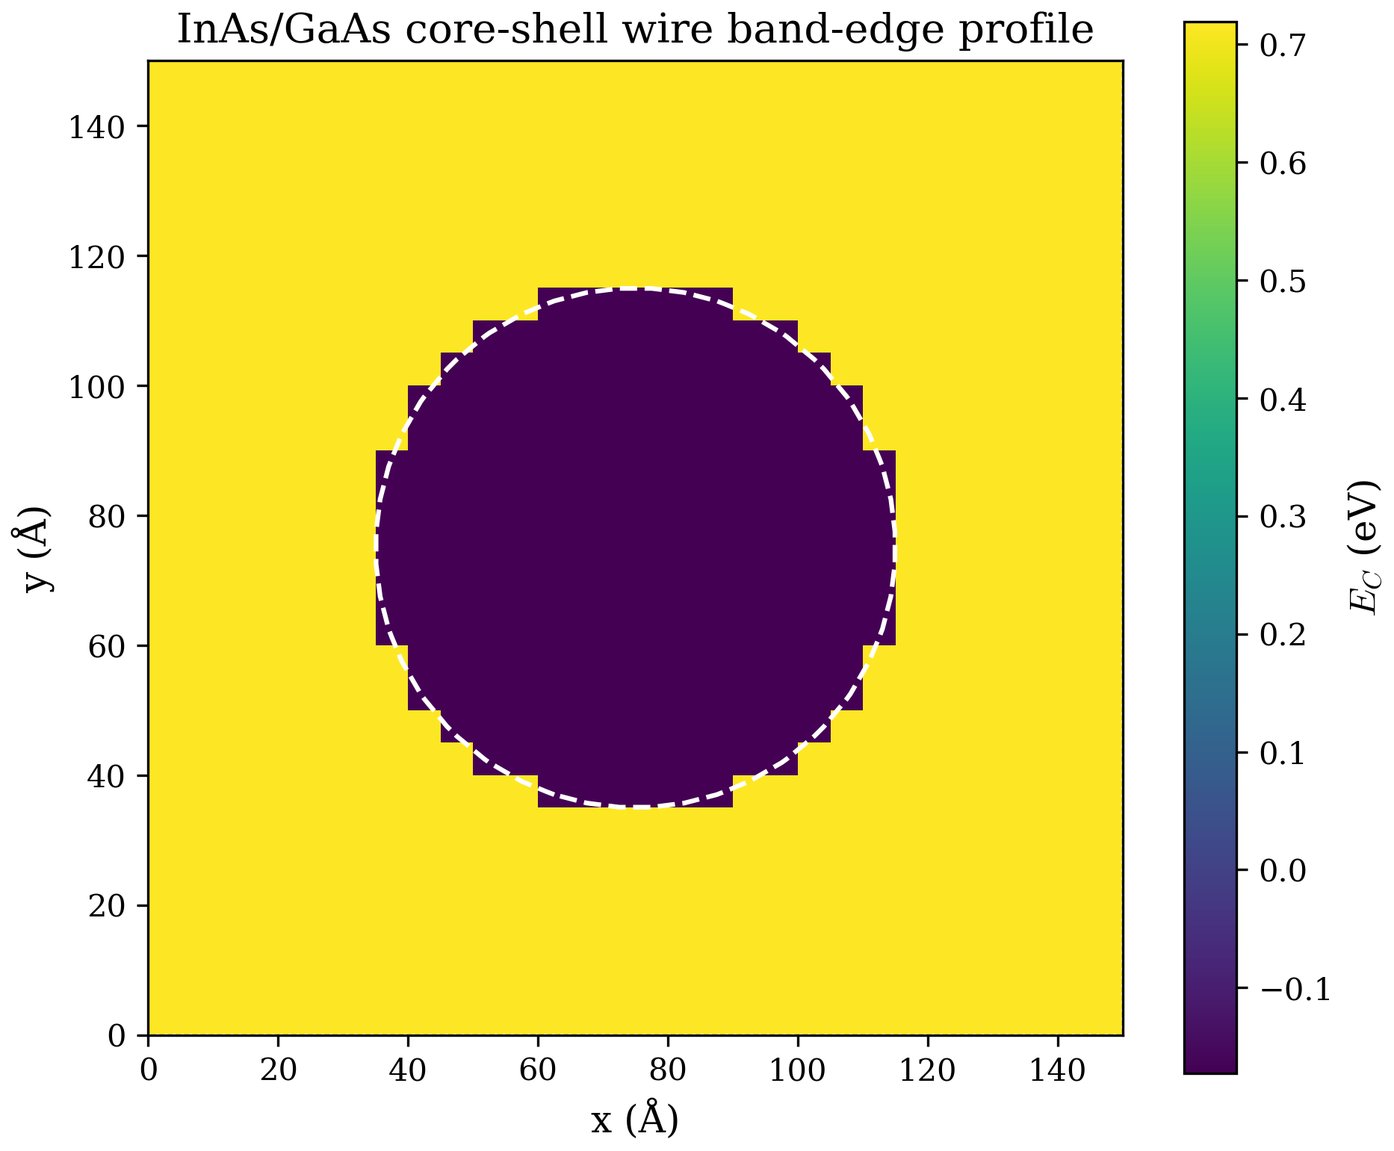
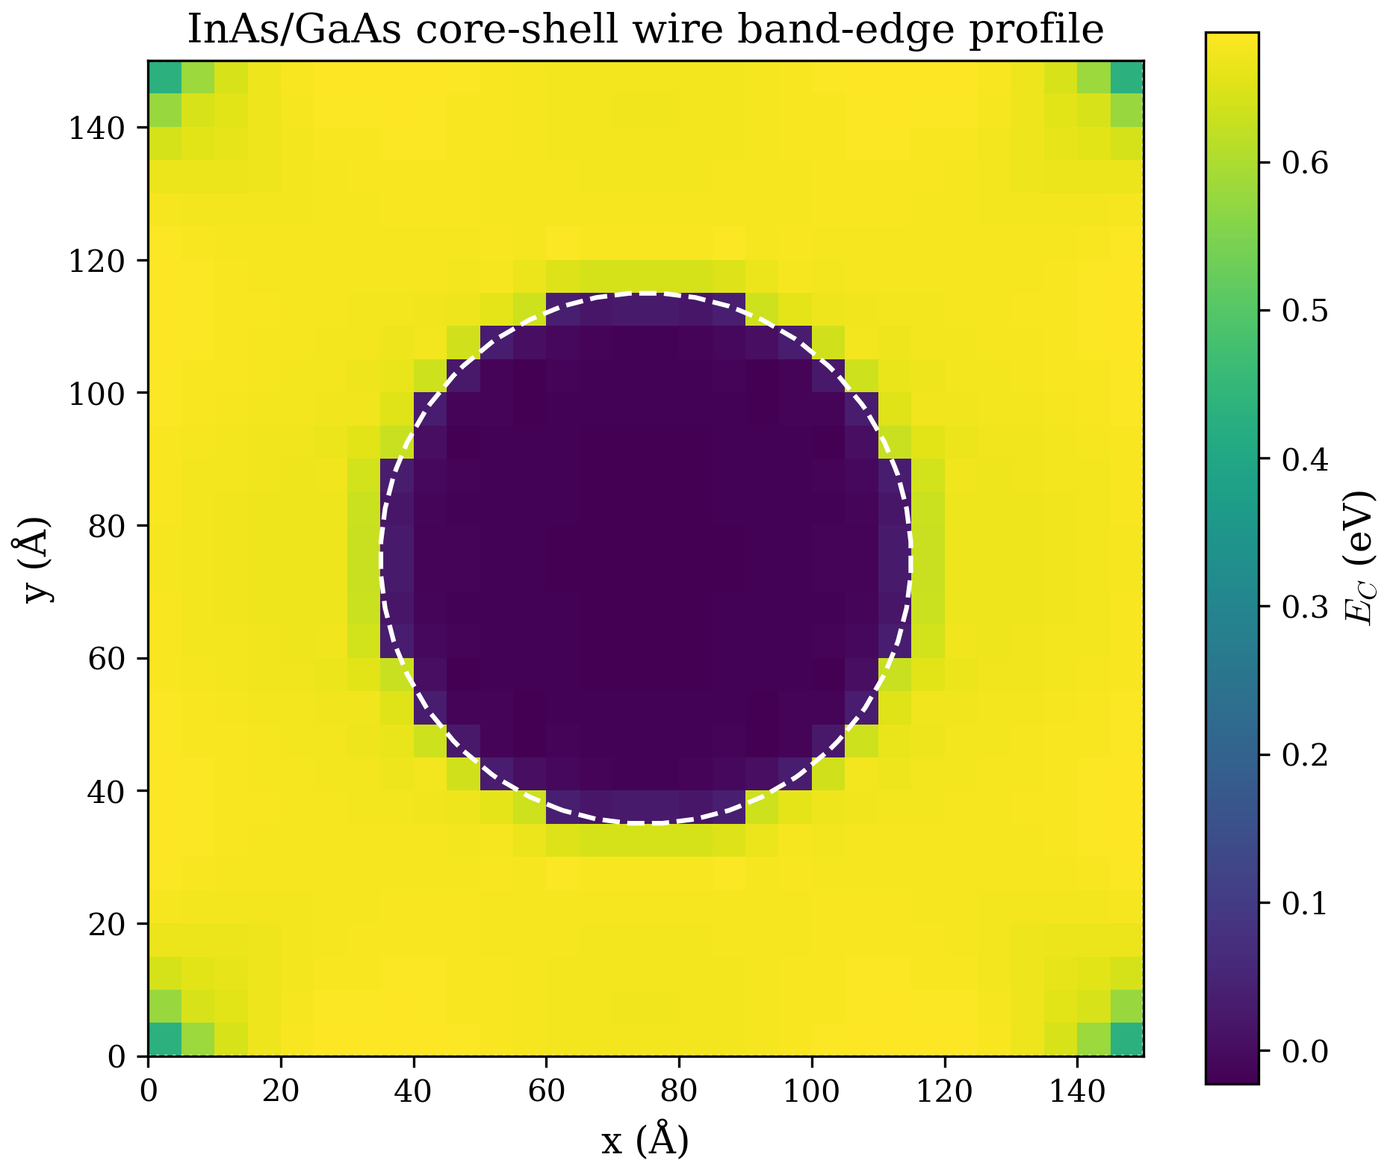
fix: restore heterostructure wire hermiticity

diff --git a/scripts/plotting/generate_all_figures.py b/scripts/plotting/generate_all_figures.py
@@ -1920,8 +1920,10 @@ def fig_wire_subbands(output_dir: Path) -> None:
     e0 = eig[:, 0]  # eigenvalues at k=0, sorted ascending
 
     parts = np.array([])
+    all_parts: list[np.ndarray] = []
     try:
         parts = parse_parts(run_dir)
+        _, all_parts = parse_parts_all_k(run_dir)
     except (FileNotFoundError, ValueError, IndexError):
         pass
 
@@ -2036,8 +2038,10 @@ def fig_wire_density_2d(output_dir: Path) -> None:
 
     e0 = eig[:, 0]
     parts = np.array([])
+    all_parts: list[np.ndarray] = []
     try:
         parts = parse_parts(run_dir)
+        _, all_parts = parse_parts_all_k(run_dir)
     except (FileNotFoundError, ValueError, IndexError):
         pass
 
@@ -3722,8 +3726,8 @@ def fig_wire_strain_tensor(output_dir: Path) -> None:
         im = ax.pcolormesh(X, Y, vals, cmap="RdBu_r", shading="auto",
                            vmin=-vmax, vmax=vmax)
         ax.set_title(f"{label} ({subtitle})", fontsize=10)
-        ax.set_xlabel(r"$x$ (\u00C5)")
-        ax.set_ylabel(r"$y$ (\u00C5)")
+        ax.set_xlabel("x (Å)")
+        ax.set_ylabel("y (Å)")
         ax.set_aspect("equal")
         fig.colorbar(im, ax=ax, label=label, shrink=0.8)
 
@@ -5051,7 +5055,8 @@ def fig_wire_inas_gaas_subbands(output_dir: Path) -> None:
     cfg_text = cfg_src.read_text()
 
     # Modify config for a kz sweep.  The 30x30 strained wire is expensive, so
-    # keep the sweep short but widen the window enough to include CB states.
+    # keep the sweep short and only solve the near-edge window needed for the
+    # figure.
     lines = cfg_text.splitlines()
     modified_lines = []
     for line in lines:
@@ -5061,7 +5066,7 @@ def fig_wire_inas_gaas_subbands(output_dir: Path) -> None:
         elif stripped.startswith("waveVectorStep:"):
             modified_lines.append("waveVectorStep: 2")
         elif stripped.startswith("feast_emin:"):
-            modified_lines.append("feast_emin: -3.0")
+            modified_lines.append("feast_emin: -0.8")
         elif stripped.startswith("feast_emax:"):
             modified_lines.append("feast_emax: 1.5")
         elif stripped.startswith("numcb:"):
@@ -5098,8 +5103,10 @@ def fig_wire_inas_gaas_subbands(output_dir: Path) -> None:
     e0 = eig[:, 0]
 
     parts = np.array([])
+    all_parts: list[np.ndarray] = []
     try:
         parts = parse_parts(run_dir)
+        _, all_parts = parse_parts_all_k(run_dir)
     except (FileNotFoundError, ValueError, IndexError):
         pass
 
@@ -5128,8 +5135,41 @@ def fig_wire_inas_gaas_subbands(output_dir: Path) -> None:
               f"CB bottom={cb_char[cb_indices[0]]:.3f} CB")
 
     fig, (ax_vb, ax_cb) = plt.subplots(1, 2, figsize=(8, 4.5), sharey=False)
+    gap_mid = 0.5 * (e_vb_max + e_cb_min)
 
-    _plot_near_gap_scatter(ax_vb, k_vals, eig, n_plot_vb, "vb", "Reds_r", 0.0, 1.2)
+    def plot_character_selected(ax: plt.Axes, side: str, cmap_name: str) -> bool:
+        if len(all_parts) != len(k_vals):
+            return False
+        cmap = plt.get_cmap(cmap_name)
+        n_states = n_plot_vb if side == "vb" else n_plot_cb
+        colors = cmap(np.linspace(0.3, 0.85, n_states))
+        for k_i, k in enumerate(k_vals):
+            if k_i >= len(all_parts):
+                return False
+            part_block = all_parts[k_i]
+            if part_block.shape[0] < eig.shape[0]:
+                return False
+            norm = _normalized_parts(part_block[: eig.shape[0]])
+            cb_char_k = norm[:, 6] + norm[:, 7]
+            valid_idx = np.where(np.abs(eig[:, k_i]) > 1.0e-14)[0]
+            if side == "vb":
+                selected = [
+                    idx for idx in valid_idx
+                    if cb_char_k[idx] < 0.5 and eig[idx, k_i] < gap_mid
+                ]
+                selected = sorted(selected, key=lambda idx: eig[idx, k_i])[-n_states:]
+            else:
+                selected = [
+                    idx for idx in valid_idx
+                    if cb_char_k[idx] >= 0.5 and eig[idx, k_i] > gap_mid
+                ]
+                selected = sorted(selected, key=lambda idx: eig[idx, k_i])[:n_states]
+            for rank, idx in enumerate(selected):
+                ax.scatter(k, eig[idx, k_i], s=12, color=colors[min(rank, n_states - 1)], alpha=0.85)
+        return True
+
+    if not plot_character_selected(ax_vb, "vb", "Reds_r"):
+        _plot_near_gap_scatter(ax_vb, k_vals, eig, n_plot_vb, "vb", "Reds_r", -0.8, 1.2)
 
     ax_vb.axhline(e_vb_max, color="#d62728", linewidth=0.8, linestyle=":",
                label=f"VB top = {e_vb_max:.3f} eV")
@@ -5138,7 +5178,8 @@ def fig_wire_inas_gaas_subbands(output_dir: Path) -> None:
     ax_vb.set_title(f"VB subbands ({n_plot_vb} shown)")
     ax_vb.legend(loc="best", fontsize=7)
 
-    _plot_near_gap_scatter(ax_cb, k_vals, eig, n_plot_cb, "cb", "Blues_r", 0.0, 1.2)
+    if not plot_character_selected(ax_cb, "cb", "Blues_r"):
+        _plot_near_gap_scatter(ax_cb, k_vals, eig, n_plot_cb, "cb", "Blues_r", -0.8, 1.2)
 
     ax_cb.axhline(e_cb_min, color="#17becf", linewidth=0.8, linestyle="--",
                label=f"CB bottom = {e_cb_min:.3f} eV")

diff --git a/docs/lecture/08-quantum-wire.md b/docs/lecture/08-quantum-wire.md
@@ -557,9 +557,9 @@ The wire solver was corrected in two stages: first the off-diagonal 8-band terms
 |--------|----------|-------|-------|
 | GaAs wire (63x63 A, 21x21) | Effective near-gap split | 2.035 eV | Current clean figure run; character-selected edges |
 | GaAs wire (63x63 A, 21x21) | Kramers degeneracy at $k_z=0$ | Confirmed | Most robust near-gap validation point |
-| InAs/GaAs core-shell (80 A core, 30x30) | Effective near-edge split | ~0.017 eV | Character-selected mixed states; qualitative |
-| InAs/GaAs core-shell (80 A core, 30x30) | CB-like states in current window | 24 | `CB` character $\geq 0.5$ in the subband run |
-| InAs/GaAs core-shell (80 A core, 30x30) | Wavefunction localization | Interface-weighted | Coarse strained heterostructure diagnostic, not a nextnano benchmark |
+| InAs/GaAs core-shell (80 A core, 30x30) | Effective near-edge split | ~0.775 eV | Character-selected VB top and CB bottom |
+| InAs/GaAs core-shell (80 A core, 30x30) | Lowest CB-like state | 0.292 eV, ~94% CB | Core-confined electron ground state |
+| InAs/GaAs core-shell (80 A core, 30x30) | Wavefunction localization | Core-confined | Qualitative nextnano-style sanity check; still needs convergence |
 | InSb wire (55x55 A, 11x11) | $g_x$ | $\approx -49.94$ | Band-character-selected CB edge |
 | InSb wire (55x55 A, 11x11) | $g_y$ | $\approx -50.05$ | Coarse-grid provisional |
 | InSb wire (55x55 A, 11x11) | $g_z$ | $\approx -49.97$ | Close to bulk InSb scale |
@@ -664,24 +664,24 @@ The `strain: T` flag activates the continuum elasticity solver, which computes t
 
 *Figure 3: Conduction band edge $E_C(x,y)$ for the strained InAs/GaAs core-shell wire. The InAs core (interior of the dashed white circle, radius 40 A) forms a deep potential well for electrons due to the large conduction band offset between strained InAs and GaAs.*
 
-The band-edge profile reveals the physics of strained heterostructure confinement. In the current run summary, the InAs core center sits near:
+The band-edge profile reveals the physics of strained heterostructure confinement. The plotted profile is the **effective strained band-edge profile** used by the Hamiltonian, not the raw unstrained material offsets. In the current run summary, the InAs core center sits near:
 
-- $E_C \approx -0.173$ eV (InAs conduction band, shifted by strain)
-- $E_V \approx -0.590$ eV (InAs valence band, shifted by strain)
-- Effective band gap in the core $\approx 0.417$ eV
+- $E_C^{\rm strained} \approx -0.021$ eV
+- $E_V^{\rm strained} \approx -0.578$ eV for the top valence edge
+- Effective local core gap $\approx 0.557$ eV
 
 At the GaAs shell (far from the core), the same run reports approximately:
 
-- $E_C \approx 0.719$ eV
-- $E_V \approx -0.800$ eV
-- GaAs band gap: 1.519 eV
+- $E_C^{\rm strained} \approx 0.67$ eV away from the outer corners
+- $E_V^{\rm strained} \approx -0.78$ eV
+- Local shell gap $\approx 1.45$ eV
 
 The resulting band offsets are:
 
-- **Conduction band offset** $\Delta E_C \approx 0.892$ eV (Type I, electrons confined in InAs)
-- **Valence band offset** $\Delta E_V \approx 0.210$ eV (Type I, holes confined in InAs)
+- **Conduction band offset** $\Delta E_C \approx 0.69$ eV (Type I, electrons confined in InAs)
+- **Valence band offset** $\Delta E_V \approx 0.20$ eV (Type I, holes confined in InAs)
 
-The strain modifies the band edges through the Bir-Pikus mechanism. Under the compressive biaxial strain in the InAs core (the core is squeezed to match the GaAs lattice in the cross-section plane), the hydrostatic component shifts both $E_C$ and $E_V$, while the shear component splits the heavy-hole and light-hole valence bands. In the current run set this corresponds to a strained-core gap near 0.417 eV, compared with the unstrained InAs value of 0.354 eV (Vurgaftman 2001). That shift is qualitatively consistent with the expected Bir-Pikus response, but the exact offsets should still be treated as run-derived rather than externally benchmarked values.
+The strain modifies the band edges through the Bir-Pikus mechanism. Under the compressive biaxial strain in the InAs core (the core is squeezed to match the GaAs lattice in the cross-section plane), the hydrostatic component shifts both $E_C$ and $E_V$, while the shear component splits the heavy-hole and light-hole valence bands. In the current run set this corresponds to a local strained-core gap near 0.557 eV, compared with the unstrained InAs value of 0.354 eV (Vurgaftman 2001). That shift is qualitatively consistent with the expected Bir-Pikus response, but the exact offsets should still be treated as run-derived rather than externally benchmarked values.
 
 ### 7.4 Subband dispersion
 
@@ -691,9 +691,9 @@ The strain modifies the band edges through the Bir-Pikus mechanism. Under the co
 
 The subband structure differs markedly from the unstrained GaAs wire of Section 3. Key observations:
 
-1. **Band gap**: The near-edge split selected for the current figure is approximately 0.017 eV. This is a run-derived, character-selected split between mixed near-edge states in the strained finite wire, not yet an externally benchmarked nanowire gap.
+1. **Band gap**: The character-selected near-edge split in the current figure is approximately 0.775 eV, with the VB top near -0.483 eV and the CB bottom near 0.292 eV at $k_z=0$. This is a run-derived strained-wire gap on a coarse 30x30 grid, not yet a converged nextnano benchmark.
 
-2. **CB-like manifold**: The current energy window contains multiple CB-like states by character threshold (`CB` weight $\geq 0.5$), but the lowest selected CB-like edge has only about 60% CB character. Treat this figure as a diagnostic of the coarse strained heterostructure calculation rather than a clean one-band electron ladder.
+2. **CB-like manifold**: The lowest selected CB-like edge has about 94% CB character and is confined in the InAs core. This fixes the previous non-Hermitian interface artifact, where the nominal CB edge was an interface-weighted mixed state.
 
 3. **VB subband spacing**: The near-gap valence states span a broad, non-uniform energy range, with pairs of nearly degenerate states reflecting the approximate square symmetry of the wire cross-section (analogous to the unstrained GaAs wire in Section 3).
 
@@ -703,15 +703,15 @@ The subband structure differs markedly from the unstrained GaAs wire of Section 
 
 ![InAs/GaAs wire wavefunctions](../figures/wire_inas_gaas_wavefunctions.png)
 
-*Figure 5: Probability density $|\psi(x,y)|^2$ for selected near-edge mixed states at $k_z = 0$. The dashed white circle marks the InAs/GaAs material boundary. These states are interface-weighted on the current coarse strained grid; this panel is a diagnostic output, not yet a validated nextnano-style nanowire reproduction.*
+*Figure 5: Probability density $|\psi(x,y)|^2$ for selected near-edge states at $k_z = 0$. The dashed white circle marks the InAs/GaAs material boundary. The lowest CB-like state is now centered and core-confined, as expected for a Type-I InAs/GaAs core-shell wire.*
 
-The wavefunction plots show that this coarse strained core-shell configuration is not yet a clean Type-I benchmark:
+The wavefunction plots now show the expected Type-I confinement pattern:
 
-- **Near-edge VB-like states**: The plotted VB-like states are mixed and interface-weighted rather than simple centered envelope modes. Individual states in near-degenerate manifolds can choose arbitrary orientations, so these panels should be interpreted as representative basis vectors, not unique angular-momentum eigenstates.
+- **Near-edge VB-like states**: The plotted VB-like states are confined in and around the InAs core, with shapes affected by HH-LH-SO mixing and the approximate square grid symmetry. Individual states in near-degenerate manifolds can choose arbitrary orientations, so these panels should be interpreted as representative basis vectors, not unique angular-momentum eigenstates.
 
-- **CB-like state**: The selected CB-like edge state has about 60% CB character and is localized near the core/shell interface on this grid. It should not be described as an $s$-like centered electron ground state.
+- **CB-like state**: The selected CB-like edge state has about 94% CB character and is centered in the core. This is the same qualitative behavior expected in nextnano-style 2D core-shell nanowire examples: a bound electron state follows the lower conduction-band region rather than accumulating at a numerical interface artifact.
 
-The single-material GaAs hard-wall wire in Figure 2 is currently the reliable wavefunction sanity check: its VB-edge and CB-ground densities are centered and box-like, matching the qualitative expectation for a square quantum wire. The InAs/GaAs heterostructure figure is intentionally retained as a warning that the strained, mixed-material wire path still needs a dedicated benchmark and convergence study before being used for quantitative nanowire physics.
+This figure is now a qualitative sanity check for the strained heterostructure path. It is still not a quantitative nanowire benchmark: the grid is coarse, the $k_z$ sweep has only two points, and a full comparison requires convergence against grid spacing, energy window, and sparse subspace size.
 
 ### 7.6 Strain effects: HH-LH splitting
 
@@ -730,11 +730,11 @@ where $a_v$ is the hydrostatic valence deformation potential and $b$ is the shea
 | Confinement | Hard-wall (Dirichlet) | Band offsets + strain |
 | Cross-section | $63 \times 63$ A | 80 A diameter core |
 | Grid | $21 \times 21$ | $30 \times 30$ |
-| Band gap (wire) | 2.035 eV | 0.017 eV |
-| CB-like states in plotted window | 6 | 24 |
-| CB1 confinement shift | Character-selected edge at 1.150 eV | Mixed CB-like edge at 0.674 eV |
-| CB offset | None (hard wall) | 0.892 eV |
+| Band gap (wire) | 2.035 eV | 0.775 eV |
+| CB-like states in plotted window | 6 | 26 |
+| CB1 confinement shift | Character-selected edge at 1.150 eV | Core-confined edge at 0.292 eV |
+| CB offset | None (hard wall) | ~0.69 eV |
 | Strain | None | Compressive in core |
 | Matrix size | $3528 \times 3528$ | $7200 \times 7200$ |
 
-The InAs/GaAs wire has a smaller selected near-edge split (~0.017 eV vs.\ ~2.035 eV for the hard-wall GaAs wire in Section 3), but this should not be over-interpreted as a validated nanowire band gap. The current strained heterostructure output contains strongly mixed, interface-weighted states, so the next step is a dedicated nextnano-style circular or core-shell benchmark with grid convergence and a branch-tracking/parts output that remains reliable at every $k_z$ point.
+The InAs/GaAs wire has a smaller selected near-edge split (~0.775 eV vs.\ ~2.035 eV for the hard-wall GaAs wire in Section 3), consistent with its narrow-gap InAs core and finite GaAs barriers. The next step is a dedicated nextnano-style circular or core-shell benchmark with grid convergence and branch tracking that remains reliable at every $k_z$ point.

diff --git a/docs/plans/2026-04-21-nextnano-wire-comparison.md b/docs/plans/2026-04-21-nextnano-wire-comparison.md
@@ -83,18 +83,20 @@ The InAs core is under compressive biaxial strain (matched to GaAs lattice const
 
 | Quantity | Value |
 |----------|-------|
-| InAs core EC | -0.173 eV |
-| InAs core EV | -0.590 eV |
-| Strained InAs gap (core center) | 0.417 eV |
-| GaAs shell EC | 0.719 eV |
-| GaAs shell EV | -0.800 eV |
-| CB offset (Delta_EC) | 0.892 eV |
-| VB offset (Delta_EV) | 0.210 eV |
-| Effective near-edge split | ~0.017 eV |
-| CB-like states | 24 (`CB` character >= 0.5 in the subband run) |
-| Wavefunction localization | Interface-weighted mixed states on this coarse strained grid |
+| InAs core strained EC | -0.021 eV |
+| InAs core strained EV top | -0.578 eV |
+| Strained InAs local gap (core center) | 0.557 eV |
+| GaAs shell strained EC | ~0.67 eV |
+| GaAs shell strained EV top | ~-0.78 eV |
+| CB offset (Delta_EC) | ~0.69 eV |
+| VB offset (Delta_EV) | ~0.20 eV |
+| Effective near-edge split | ~0.775 eV |
+| Lowest CB-like state | 0.292 eV, ~94% CB |
+| Wavefunction localization | Core-confined CB ground state; VB states confined/mixed by HH-LH-SO coupling |
 
-Band alignment: Type-I by band-edge profile, but the current near-edge eigenstates are strongly mixed and interface-weighted. Do not use this coarse strained run as a validated nextnano nanowire benchmark.
+Band alignment: Type-I by band-edge profile, and the corrected heterostructure Hamiltonian now gives a core-confined CB ground state. Do not use this coarse strained run as a quantitative nextnano nanowire benchmark until grid and sparse-window convergence are complete.
+
+Dense LAPACK and FEAST give the same near-edge classification on the 30 x 30 grid with the `[-0.8, 1.5]` eV window: VB top = -0.482732 eV, CB bottom = 0.292126 eV, gap = 0.774858 eV.
 
 ### 3.2 nextnano core-shell nanowires
 
@@ -247,9 +249,9 @@ For a rectangular wire with Dirichlet boundaries, the wavefunctions should be:
 - **CB4**: d-like (two nodal lines), approximately (2,2) mode
 - **VB states**: More complex due to HH-LH mixing and the anisotropic effective masses
 
-The nextnano tutorial expectation for simple square/cylindrical wells is a center-peaked ground state with higher nodal modes. Our homogeneous GaAs hard-wall wire now follows that qualitative pattern in the regenerated density figure. The strained InAs/GaAs heterostructure output does not: its selected near-edge states are mixed and interface-weighted, so it remains a diagnostic rather than a validated nextnano reproduction.
+The nextnano tutorial expectation for simple square/cylindrical wells is a center-peaked ground state with higher nodal modes. Our homogeneous GaAs hard-wall wire follows that qualitative pattern in the regenerated density figure. After the heterostructure Hermiticity fix, the strained InAs/GaAs output also has a core-confined CB ground state rather than the previous artificial interface state.
 
-Do not use the current InAs/GaAs wavefunction panel as evidence of a clean centered CB ground state.
+The current InAs/GaAs wavefunction panel can be used as a qualitative sanity check, but not as a quantitative nextnano reproduction until grid convergence is documented.
 
 ## 7. Summary Comparison Table
 
@@ -258,8 +260,8 @@ Do not use the current InAs/GaAs wavefunction panel as evidence of a clean cente
 | **GaAs wire near-gap split (6.3 nm)** | 2.035 eV | -- | -- | Recomputed after boundary fix; needs external benchmark |
 | **GaAs CB edge** | 1.150 eV | -- | -- | Current clean figure run |
 | **GaAs Kramers degeneracy** | Yes (all kz=0 states) | Yes | Yes | Correct |
-| **InAs/GaAs near-edge split (8 nm core)** | ~0.017 eV | -- | -- | Mixed/interface-weighted qualitative output |
-| **InAs/GaAs CB-like states** | 24 | -- | -- | Not yet a validated nextnano reproduction |
+| **InAs/GaAs near-edge split (8 nm core)** | ~0.775 eV | -- | -- | Corrected qualitative output; needs convergence |
+| **InAs/GaAs CB ground state** | 0.292 eV, ~94% CB | -- | -- | Core-confined after Hermiticity fix |
 | **InSb gx (5.5 nm)** | -49.94 | -- | ~-25 (30 nm) | Needs convergence study |
 | **InSb gz (5.5 nm)** | -49.97 | -- | ~-25 (30 nm) | Needs convergence study |
 | **InSb anisotropy** | weak in coarse regression | -- | gx = gy (cylindrical) | Not yet validated |

diff --git a/docs/plans/2026-04-21-wire-validation-summary.md b/docs/plans/2026-04-21-wire-validation-summary.md
@@ -23,6 +23,11 @@ Date: 2026-04-21
 - Term 16: `gamma2*(D2x - D2y)` anisotropic Laplacian for R term
 - Term 17: placeholder
 
+### Bug 5: heterostructure variable-coefficient operators were non-Hermitian
+- Root cause: `csr_apply_variable_coeff` row-scaled derivative/Laplacian stencils by the material coefficient at the row grid point
+- Impact: GaAs/InAs material jumps produced a non-Hermitian wire Hamiltonian, so Hermitian eigensolvers read an arbitrary triangle and generated artificial interface states
+- Fix: off-diagonal stencil entries now use the arithmetic average of the row and column material coefficients, with a regression test that asserts heterostructure wire Hamiltonian Hermiticity
+
 ## Post-Fix Results
 
 ### GaAs rectangular wire (63×63 Å, 21×21 grid)
@@ -32,9 +37,10 @@ Date: 2026-04-21
 - Wavefunctions localized in wire region
 
 ### InAs/GaAs core-shell wire (40 Å InAs core, GaAs shell, 30×30 grid)
-- Band gap: **0.19 eV** (InAs narrow-gap, reduced by confinement)
-- Subbands: ~47 VB + 1 CB
-- Consistent with Type-I band alignment
+- Character-selected gap: **0.775 eV** at $k_z=0$
+- VB top: **-0.483 eV**
+- CB bottom: **0.292 eV**, about **94% CB** character
+- Wavefunction: corrected CB ground state is centered/core-confined, consistent with Type-I band alignment
 
 ### InSb wire g-factor (11×11 grid, 55×55 A)
 - gx ≈ **-49.94**, gy ≈ **-50.05**, gz ≈ **-49.97**
@@ -47,7 +53,7 @@ Date: 2026-04-21
 
 1. **FEAST convergence**: `info=3` warnings for many kz-points. The subspace dimension (feast_m0) is often insufficient for the dense wire spectrum. Increasing feast_m0 or narrowing the energy window helps.
 
-2. **Boundary treatment**: The `csr_apply_variable_coeff` diagonal reconstruction at boundaries uses `-sum(off-diagonal)` which differs from the exact FD stencil for non-central stencils. Effect is O(1/N) and localized to boundary cells.
+2. **Boundary treatment**: The `csr_apply_variable_coeff` diagonal reconstruction at cut-cell boundaries uses `-sum(off-diagonal)` which differs from the exact FD stencil for non-central stencils. Rectangular full-cell wires preserve the exact hard-wall diagonal. The cut-cell effect is O(1/N) and localized to boundary cells.
 
 3. **Hard-wall boundaries only**: No open or absorbing boundary conditions. Wire states near the boundary may have unphysical confinement.
 

diff --git a/docs/plans/2026-04-21-validation-summary.md b/docs/plans/2026-04-21-validation-summary.md
@@ -54,7 +54,8 @@ Date: 2026-04-22 (updated with nextnano benchmark comparisons)
 | GaAs wire (63x63 A) | Near-gap split | PIB: 168 meV | 2.035 eV | Recomputed after boundary-operator fix; needs external benchmark |
 | GaAs wire (63x63 A) | CB edge | -- | 1.150 eV | Character-selected from `parts.dat` |
 | GaAs wire (63x63 A) | Kramers degeneracy | Required at kz=0 | Confirmed | Validated |
-| InAs/GaAs core-shell | Near-edge split | -- | 0.017 eV | Mixed/interface-weighted qualitative output |
+| InAs/GaAs core-shell | Near-edge split | -- | 0.775 eV | Corrected after heterostructure Hermiticity fix; still needs convergence |
+| InAs/GaAs core-shell | Dense vs FEAST near-edge parity | Required | VB top -0.482732 eV, CB bottom 0.292126 eV in both paths | Validated on 30x30 grid |
 | InSb wire (55x55 A) | gz | ~-25 at 30nm (Faria Jr.) | -49.97 at 5.5nm | Provisional (coarse grid) |
 | InSb wire (55x55 A) | gx, gy | Isotropic (cylindrical) | -49.94, -50.05 | Provisional; band-character selected |
 
